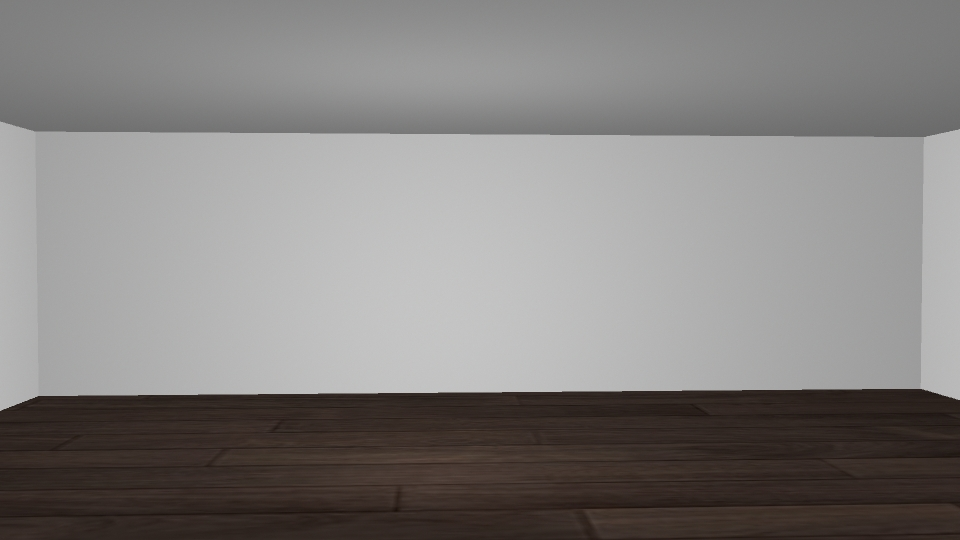
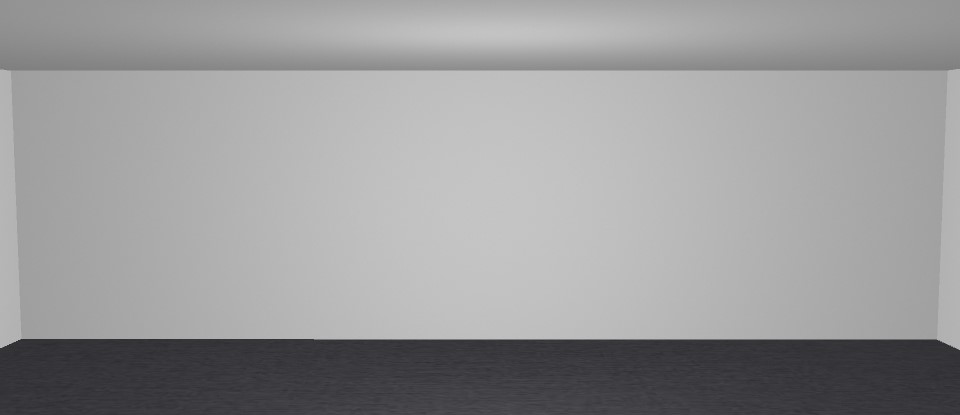
updated gallery img

diff --git a/index.html b/index.html
@@ -10,15 +10,13 @@
 <style>
 
 .gallery  {
-  background-image: url("gallery2.jpg");
-  background-repeat:no-repeat;
-  background-size:contain;
-  height: 550px;
   margin: 0 auto;
-  width: 1000px;
   z-index: -1;
 }
 
+.container{
+  touch-action: none;
+}
 .resize-drag {
   color: white;
   width: 150px;
@@ -91,7 +89,9 @@ Producing shows with more inclusivity, further outreach, educational programming
 </div>
 </section>
 <section>
-<div class="gallery"></div>
+<div class="gallery">
+<img src="gallery2.jpg" class="center" style="width:100%;">
+</div>
 
 <div class="img_gallery">
   <div class="container">
